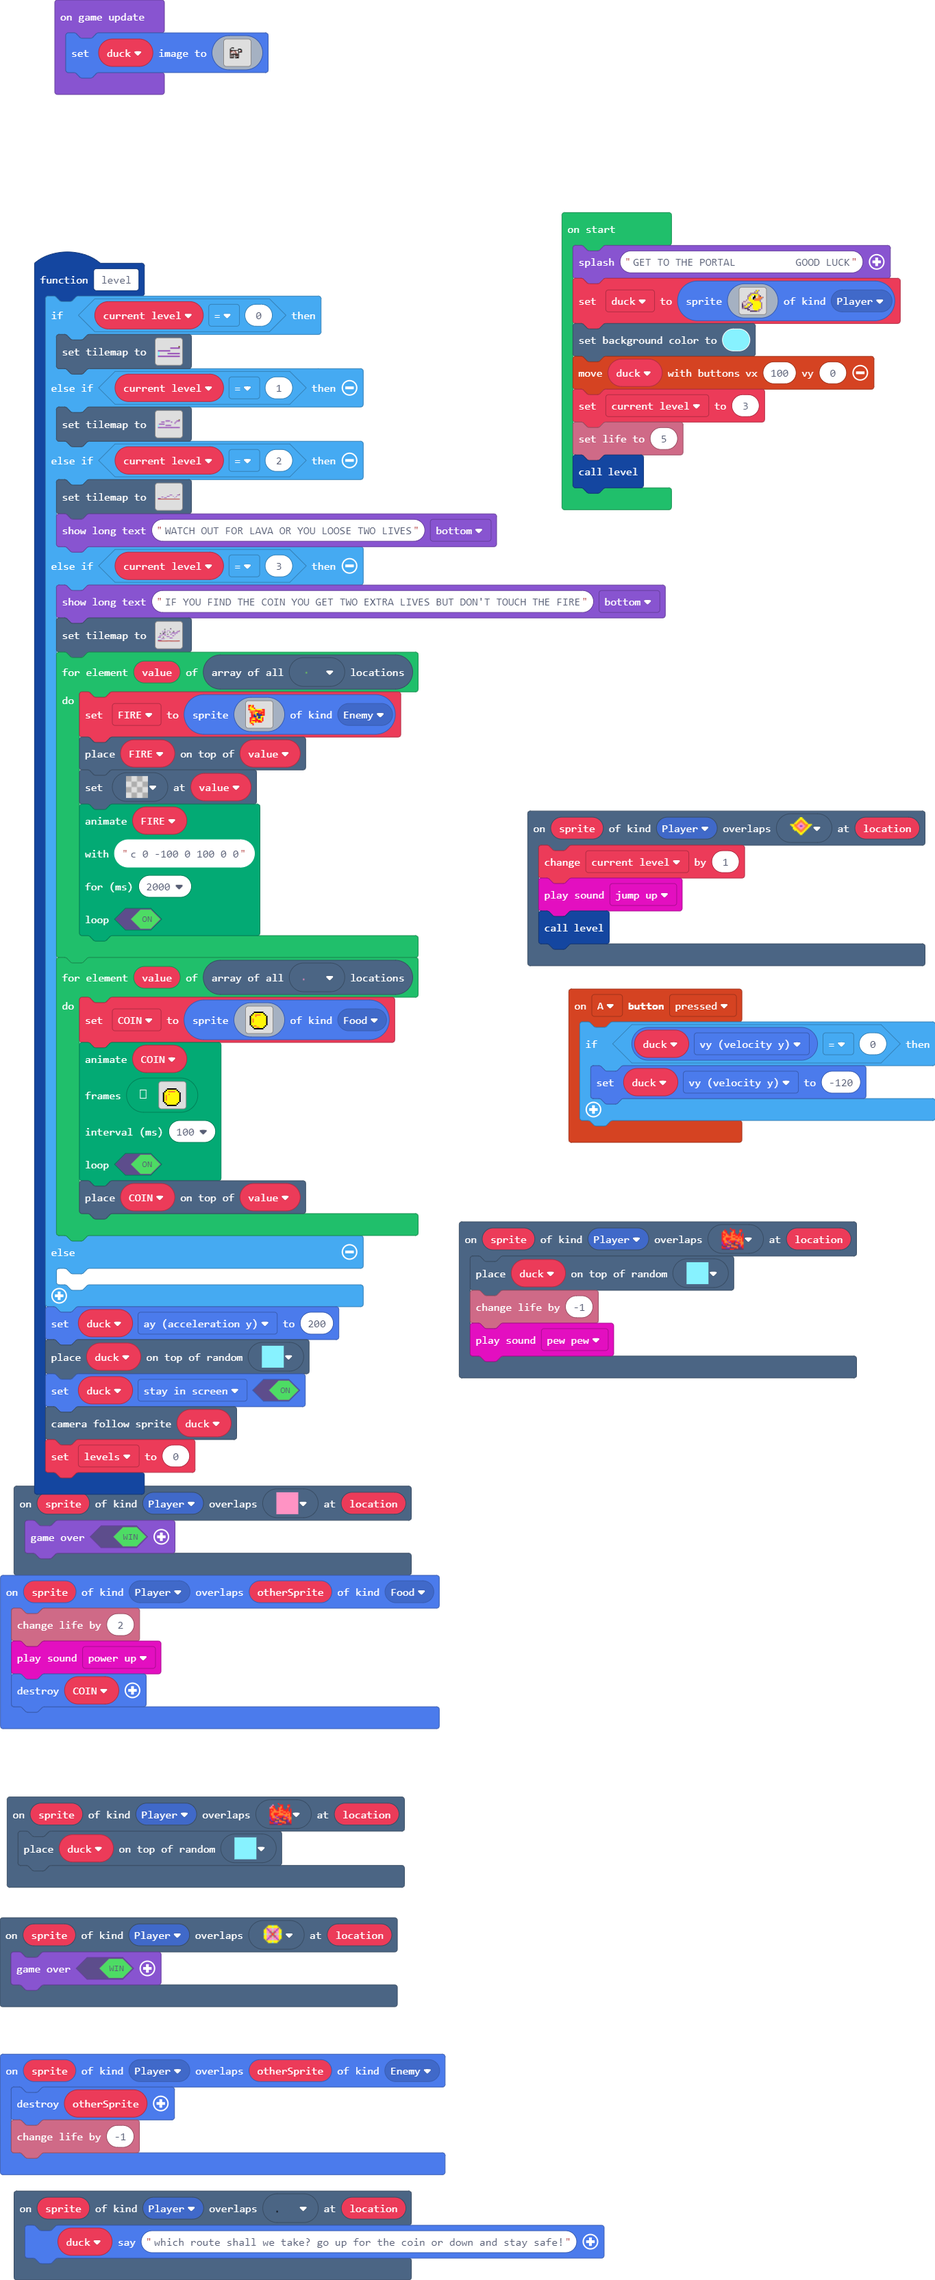
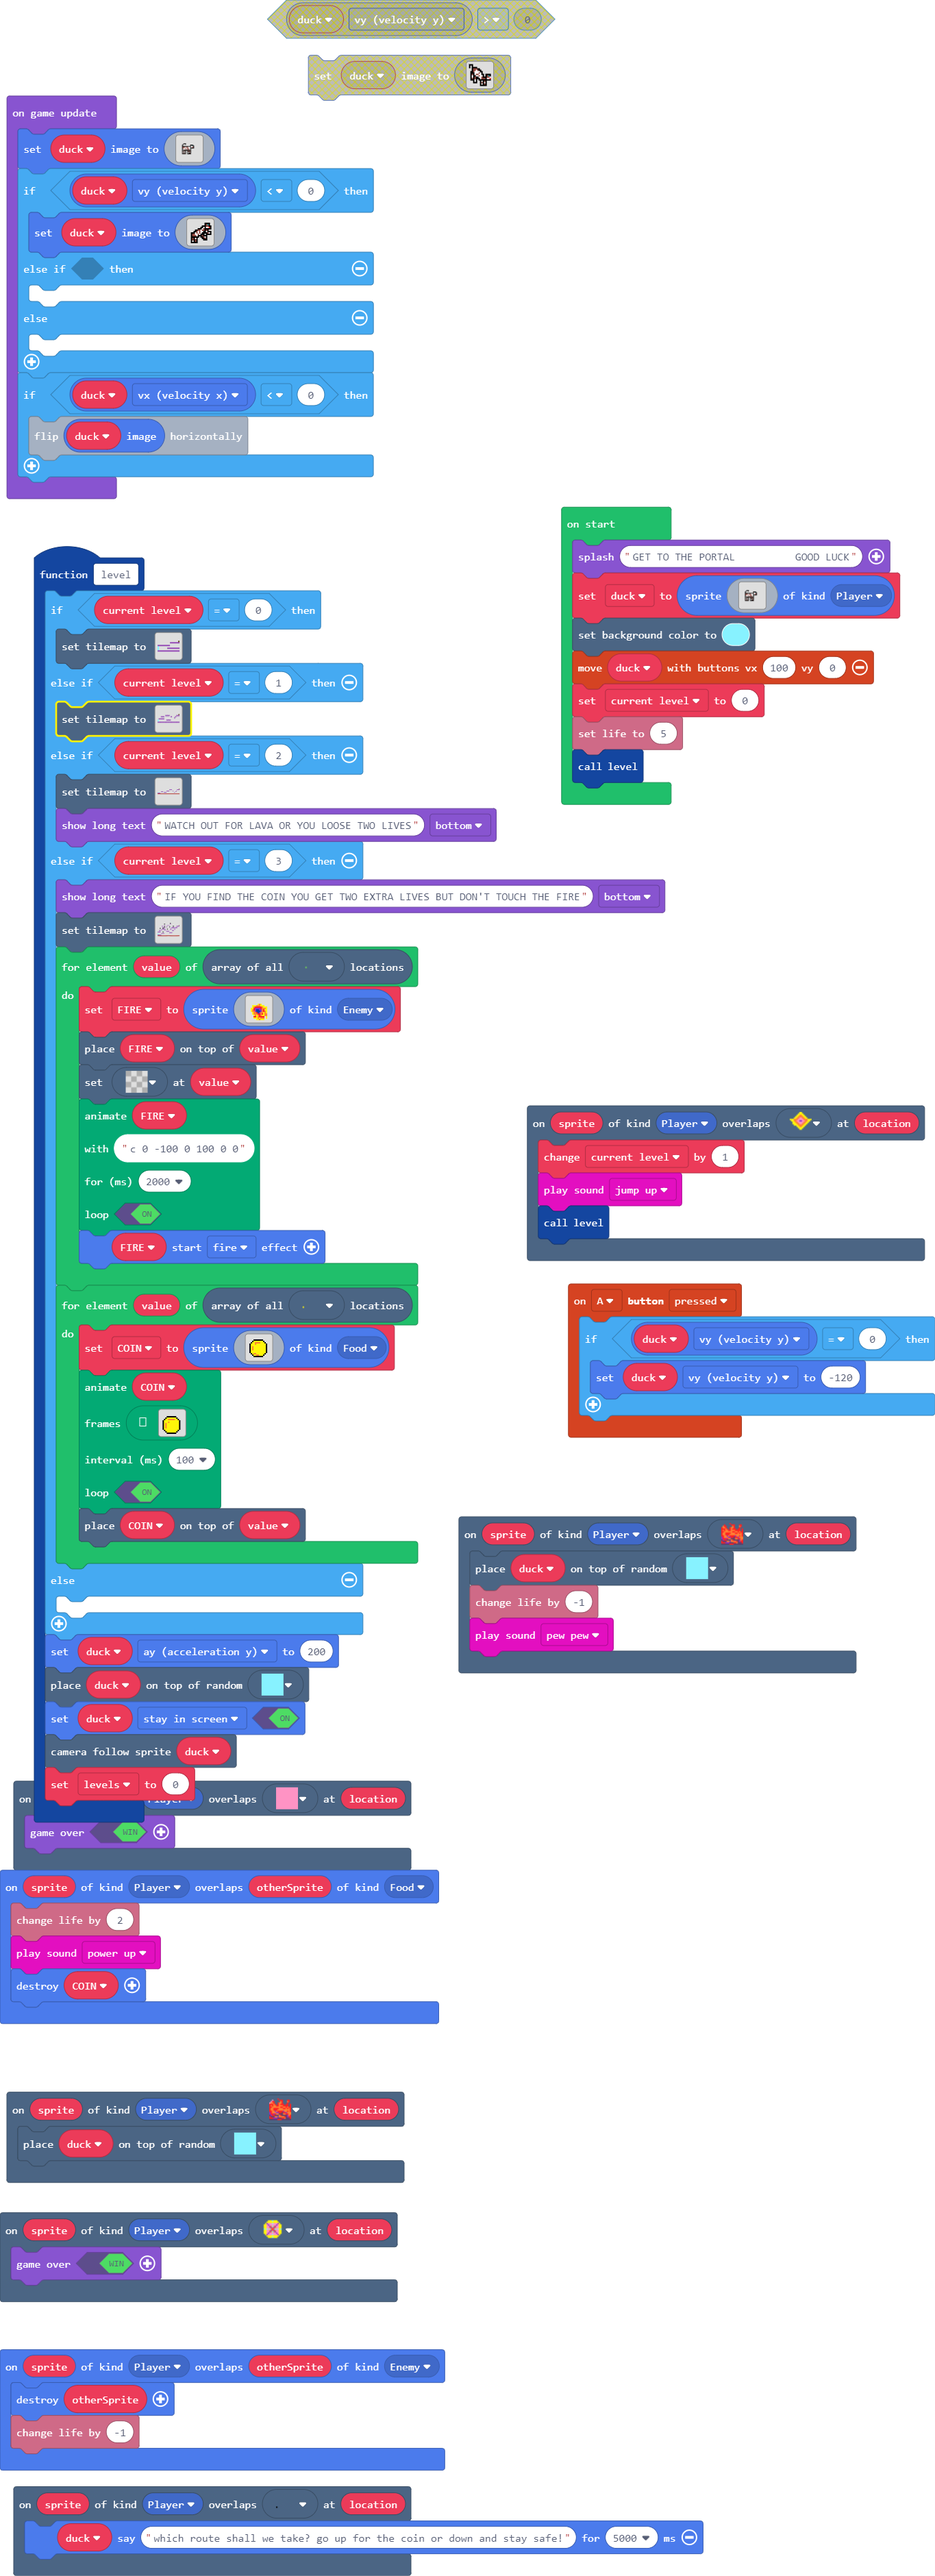
created special effects for the character,fireball and the coin

diff --git a/main.ts b/main.ts
@@ -326,14 +326,14 @@ function level () {
         ))
     } else if (current_level == 1) {
         tiles.setTilemap(tiles.createTilemap(
-            hex`1400080000000000000000000000000000000000000000030000000000000001010101000000000000010101000000010101000000000000010000000100000000000000000000000000000000000001000000000001010101010000000000000000000000000000050000000000000101010101000000000000000005000000000000000000000000000000000000000101010101010101010101010101010101010101`,
+            hex`1400080000000000000000000000000000000000000000030000000000000001010101000000000000010101000000010101000000000000010000000100000000000000000000000000000000000001000000000001010101010000000000000000000000000000050000000000000001010101000000000000000005000000000000000000000000000000000000000101010101010101010101010101010101010101`,
             img`
 . . . . . . . . . . . . . . . . . . . . 
 . . . . . . . 2 2 2 2 . . . . . . 2 2 2 
 . . . 2 2 2 . . . . . . 2 . . . 2 . . . 
 . . . . . . . . . . . . . . . 2 . . . . 
-. 2 2 2 2 2 . . . . . . . . 2 . . . . . 
-. . . . . . . 2 2 2 2 2 2 2 2 . . . . . 
+. 2 2 2 2 2 . . . . . . . . . . . . . . 
+. . . . . . . . 2 2 2 2 . . . . . . . . 
 . . . . . . . . . . . . . . . . . . . . 
 2 2 2 2 2 2 2 2 2 2 2 2 2 2 2 2 2 2 2 2 
 `,
@@ -387,21 +387,21 @@ function level () {
         for (let value of tiles.getTilesByType(myTiles.tile12)) {
             FIRE = sprites.create(img`
 . . . . . . . . . . . . . . . . 
-2 2 5 2 . . . . . . . . . . . . 
-2 5 4 2 . . . . . . . . . . . . 
-4 5 5 5 2 . . . . . . . . . . . 
-2 4 5 5 5 4 5 5 5 5 2 2 . . . . 
-. 4 4 4 4 2 2 2 2 4 4 2 . . . . 
-. 4 2 4 4 5 5 2 4 2 2 2 . . . . 
-. . 2 4 4 5 8 c 2 2 4 2 . . . . 
-. . 2 2 8 4 c 8 8 8 2 2 . . . . 
-. . 2 2 8 8 5 c c 5 5 . . . . . 
-. 2 2 4 4 2 5 8 8 5 2 . . . . . 
-. 2 4 5 5 2 2 5 5 5 2 . . . . . 
-. 2 4 2 2 2 2 2 2 5 2 . . . . . 
-. 2 5 5 5 2 5 2 2 2 . . . . . . 
-. 5 2 4 . . . . . . . . . . . . 
-. . . 2 . . . . . . . . . . . . 
+. . . . . . . . . . . . . . . . 
+. . . . . . . . . . . . . . . . 
+. . . . . . . . . . . . . . . . 
+. . . . . . . 5 4 5 . . . . . . 
+. . . 5 5 5 4 4 4 5 5 5 . . . . 
+. . . 5 4 2 2 2 2 2 4 5 5 5 . . 
+. . 5 5 2 a a a a 2 4 4 4 5 . . 
+. . 5 4 2 a 8 8 a a 4 2 5 5 . . 
+. . 5 4 4 a 8 8 8 a 4 2 4 5 . . 
+. . . 5 4 4 2 8 a 4 4 5 4 5 . . 
+. . . 5 4 4 4 2 2 4 2 5 4 4 . . 
+. . . . 5 4 5 4 2 4 5 5 4 4 . . 
+. . . . 2 2 5 4 2 2 2 2 . 5 . . 
+. . . . 5 5 5 4 5 4 4 4 . 5 . . 
+. . . . . . 5 5 4 5 5 5 . . . . 
 `, SpriteKind.Enemy)
             tiles.placeOnTile(FIRE, value)
             tiles.setTileAt(value, myTiles.tile0)
@@ -411,6 +411,7 @@ function level () {
             2000,
             true
             )
+            FIRE.startEffect(effects.fire)
         }
         for (let value of tiles.getTilesByType(myTiles.tile4)) {
             COIN = sprites.create(img`
@@ -709,7 +710,7 @@ sprites.onOverlap(SpriteKind.Player, SpriteKind.Enemy, function (sprite, otherSp
     info.changeLifeBy(-1)
 })
 scene.onOverlapTile(SpriteKind.Player, myTiles.tile16, function (sprite, location) {
-    duck.say("which route shall we take? go up for the coin or down and stay safe!")
+    duck.say("which route shall we take? go up for the coin or down and stay safe!", 5000)
 })
 scene.onOverlapTile(SpriteKind.Player, myTiles.tile8, function (sprite, location) {
     tiles.placeOnRandomTile(duck, myTiles.tile5)
@@ -726,26 +727,26 @@ let current_level = 0
 let duck: Sprite = null
 game.splash("GET TO THE PORTAL          GOOD LUCK")
 duck = sprites.create(img`
-. . . . . . . . . . b 5 b . . . 
-. . . . . . . . . b 5 b . . . . 
-. . . . . . b b b b b b . . . . 
-. . . . . b b 5 5 5 5 5 b . . . 
-. . . . b b 5 d 1 f 5 d 4 c . . 
-. . . . b 5 5 1 f f d d 4 4 4 b 
-. . . . b 5 5 d f b 4 4 4 4 b . 
-. . . b d 5 5 5 5 4 4 4 4 b . . 
-. b b d d d 5 5 5 5 5 5 5 b . . 
-b d d d b b b 5 5 5 5 5 5 5 b . 
-c d d b 5 5 d c 5 5 5 5 5 5 b . 
-c b b d 5 d c d 5 5 5 5 5 5 b . 
-c b 5 5 b c d d 5 5 5 5 5 5 b . 
-b b c c c d d d 5 5 5 5 5 d b . 
-. . . . c c d d d 5 5 5 b b . . 
-. . . . . . c c c c c b b . . . 
+. . . . . . . . . . . . . . . . . . . . . . . . . . . . . . 
+. . . . . . . f f f . . . . . . . . . . . . . . . . . . . . 
+. . . . . . f . . f . . . . . . . . . . . . . . . . . . . . 
+. . . . . f . . . . . . . . . . f f f f . . . . . . . . . . 
+. . . . . f . . . . . . . . . . f e 6 f f . . . . . . . . . 
+. . . . . f f f f f f f f f f f f 1 1 1 f . . . . . . . . . 
+. . . . . f e e e 1 1 e e 1 1 1 f 1 1 2 f . . . . . . . . . 
+. . . . . f e e 1 e 1 e e e 1 1 f f f f f . . . . . . . . . 
+. . . . . f e 1 1 e 1 1 e e 1 1 f . . . . . . . . . . . . . 
+. . . . . f 1 1 1 1 e 1 e e e 1 f . . . . . . . . . . . . . 
+. . . . . f f f f f f f f f f f f . . . . . . . . . . . . . 
+. . . . . f 1 f e f . . f e f e f . . . . . . . . . . . . . 
+. . . . . f e f 1 f . . f e f e f . . . . . . . . . . . . . 
+. . . . . f 1 f 1 f . . f 1 f 1 f . . . . . . . . . . . . . 
+. . . . . f e f e f . . f 1 f e f . . . . . . . . . . . . . 
+. . . . . f f f f f . . f f f f f . . . . . . . . . . . . . 
 `, SpriteKind.Player)
 scene.setBackgroundColor(9)
 controller.moveSprite(duck, 100, 0)
-current_level = 3
+current_level = 0
 info.setLife(5)
 level()
 game.onUpdate(function () {
@@ -767,4 +768,31 @@ game.onUpdate(function () {
 . . . . . f e f e f . . f 1 f e f . . . . . . . . . . . . . 
 . . . . . f f f f f . . f f f f f . . . . . . . . . . . . . 
 `)
+    if (duck.vy < 0) {
+        duck.setImage(img`
+. . . . . . . . . . . . . . . . 
+. . . . . . . . . . . f f f f . 
+. . . . . . . . . . . f e 6 f . 
+. . . . . . . . . f f f e e f f 
+. . . . . . . . f f 1 f 1 1 2 f 
+. . . . . . f f f 1 e f f f f f 
+. . . . f f e e 1 e e f e f . . 
+. . . f f e 1 e 1 1 f f 1 f f f 
+. f f f 1 e 1 e 1 f f f f e 1 f 
+. f e e 1 1 e 1 f f f . f f f f 
+. f e e e 1 f f f e f f f . . . 
+. f f f f f f . f f e 1 f . . . 
+. f e f 1 f . . . f f e f . . . 
+. f e f e f . . . . f f f . . . 
+. f 1 f e f . . . . . . . . . . 
+. f f f f f . . . . . . . . . . 
+`)
+    } else if (false) {
+    	
+    } else {
+    	
+    }
+    if (duck.vx < 0) {
+        duck.image.flipX()
+    }
 })
